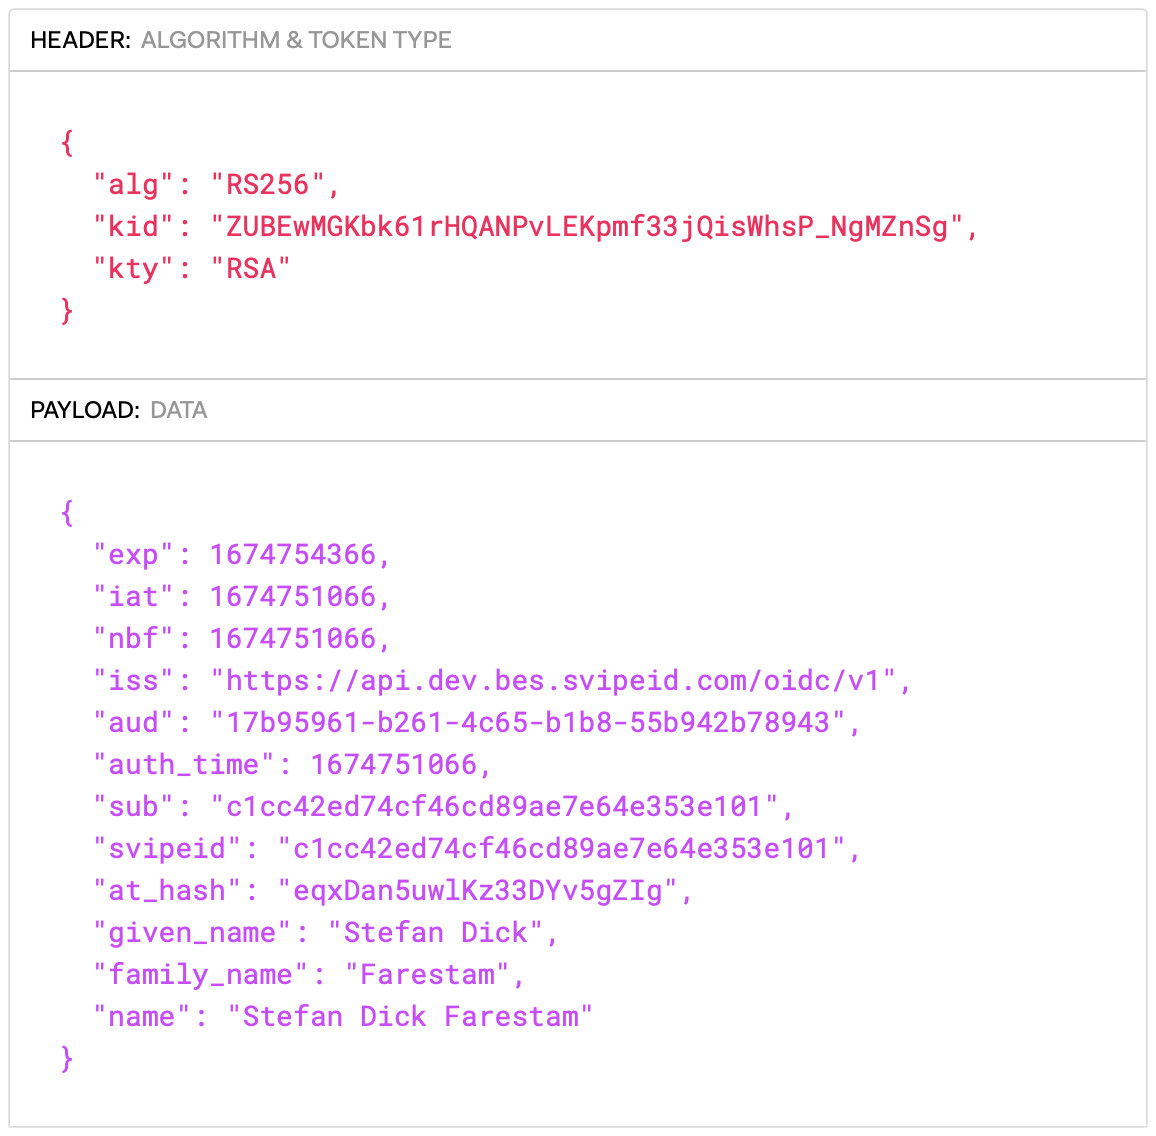
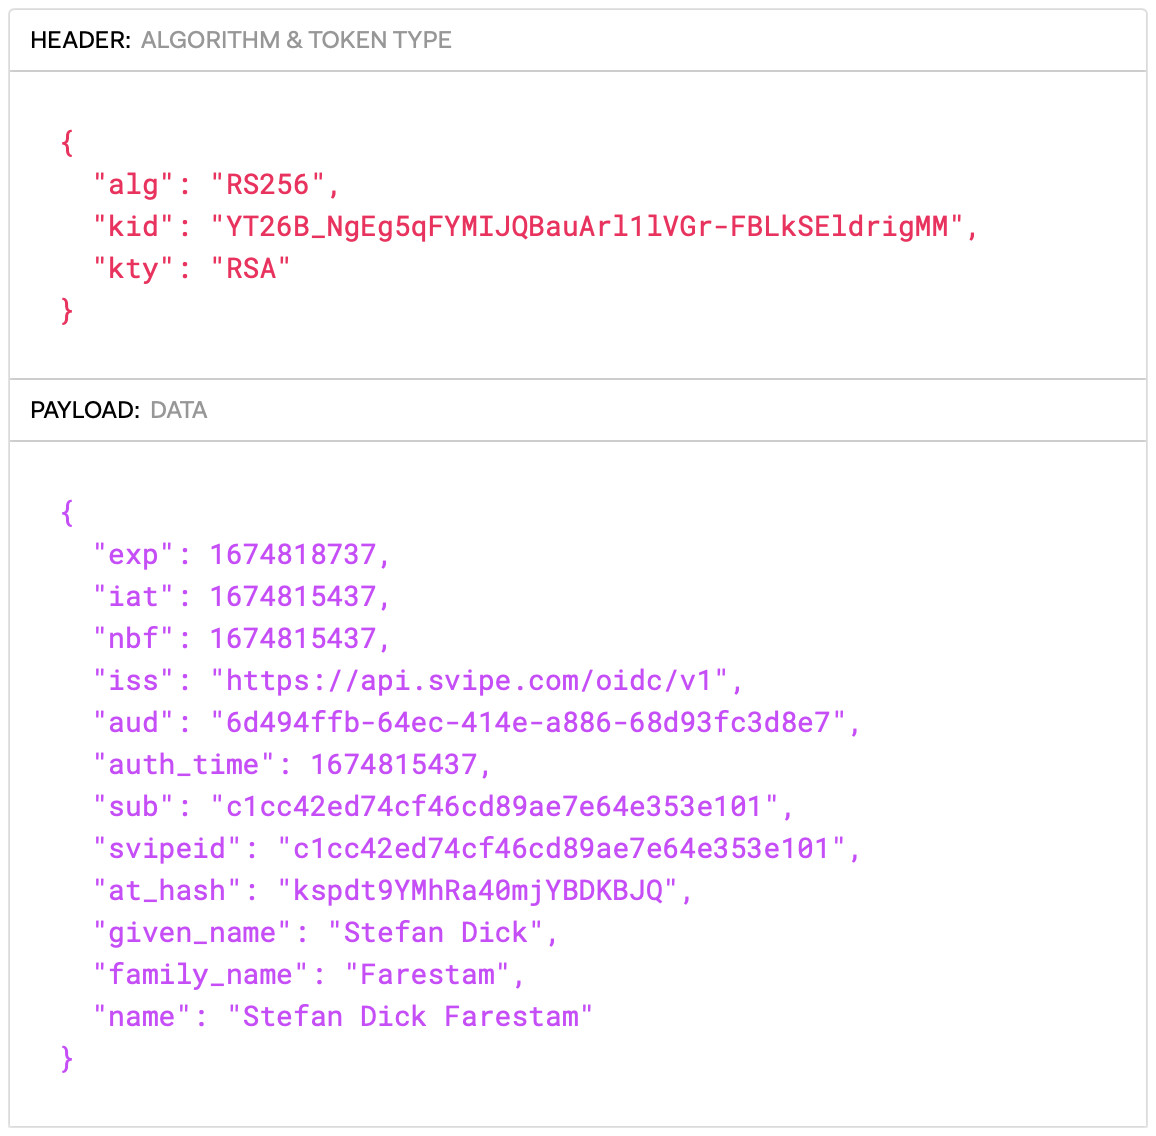
updated ciba documentation

diff --git a/oidc.md b/oidc.md
@@ -165,27 +165,27 @@ Create a new app in the Svipe Developer portal, enable CIBA and configure push d
 
 Note that the `Client notfication endpoint` needs to be a publicly available host that is reachable from the Svipe backend server. If you use a self-signed https server, then select `Self-signed endpoint` and the SSL certificate will not be verified.
 
-In this example we have used the free service from [API Mocha](https://apimocha.com), which allows you to instantly create a free endpoint that accepts and displays an incoming http request.
+In this example we have used a free service from [API Mocha](https://apimocha.com), which allows you to instantly create a free endpoint that accepts and displays an incoming http request.
 
 ## CIBA walkthrough with curl
 
 Let's do a full authorization using the command line. Start by initiating a CIBA request (but replace the value for `client_id` with the one for the app that you configured in the developer portal):
 
-    curl -X POST -d "client_notification_token=tokenXX&login_hint=authref&client_id=0234e1f1-631e-4386-9b89-39e91b191e62&scope=profile"  https://api.dev.bes.svipeid.com/oidc/v1/authorize_ciba
+    curl -X POST -d "client_notification_token=tokenXX&login_hint=authref&client_id=6d494ffb-64ec-414e-a886-68d93fc3d8e7&scope=profile"  https://api.svipe.com/oidc/v1/authorize_ciba
 
 This call will return:
 
     {
-    "auth_req_id": "1OI-MCPvdV2BnuMNDAgjgFNUEWkWJFw0KSkBkCVq",
-    "expires_in": 1800,
-    "interval": 5,
+        "auth_req_id": "CzLMlkHCwHjsX737FOh5f851xj68htetwtkfyuOj",
+        "expires_in": 1800,
+        "interval": 5,
         "authref": {
-            "qrlink":  "https://app.svipe.com/ad/gmlGaWMcy5lIVg",
-            "qrcode":  "https://api.dev.bes.svipeid.com/oidc/v1/qr/gmlGaWMcy5lIVg.png",
-            "applink": "https://app.svipe.com/ad/gmlGaWMcy5lIVg?ondevice",
-            "qrauth":  "https://api.dev.bes.svipeid.com/oidc/v1/qrauth/gmlGaWMcy5lIVg?ondevice",
+            "qrlink": "https://app.svipe.com/a/jmyMx12rjgbwLA",
+            "qrcode": "https://api.svipe.com/oidc/v1/qr/jmyMx12rjgbwLA.png",
+            "applink": "https://app.svipe.com/a/jmyMx12rjgbwLA?ondevice",
+            "qrauth": "https://api.svipe.com/oidc/v1/qrauth/jmyMx12rjgbwLA?ondevice",
             "expires_in": 1799,
-            "expires_at": 1674752828
+            "expires_at": 1674817214
         }
     }
 
